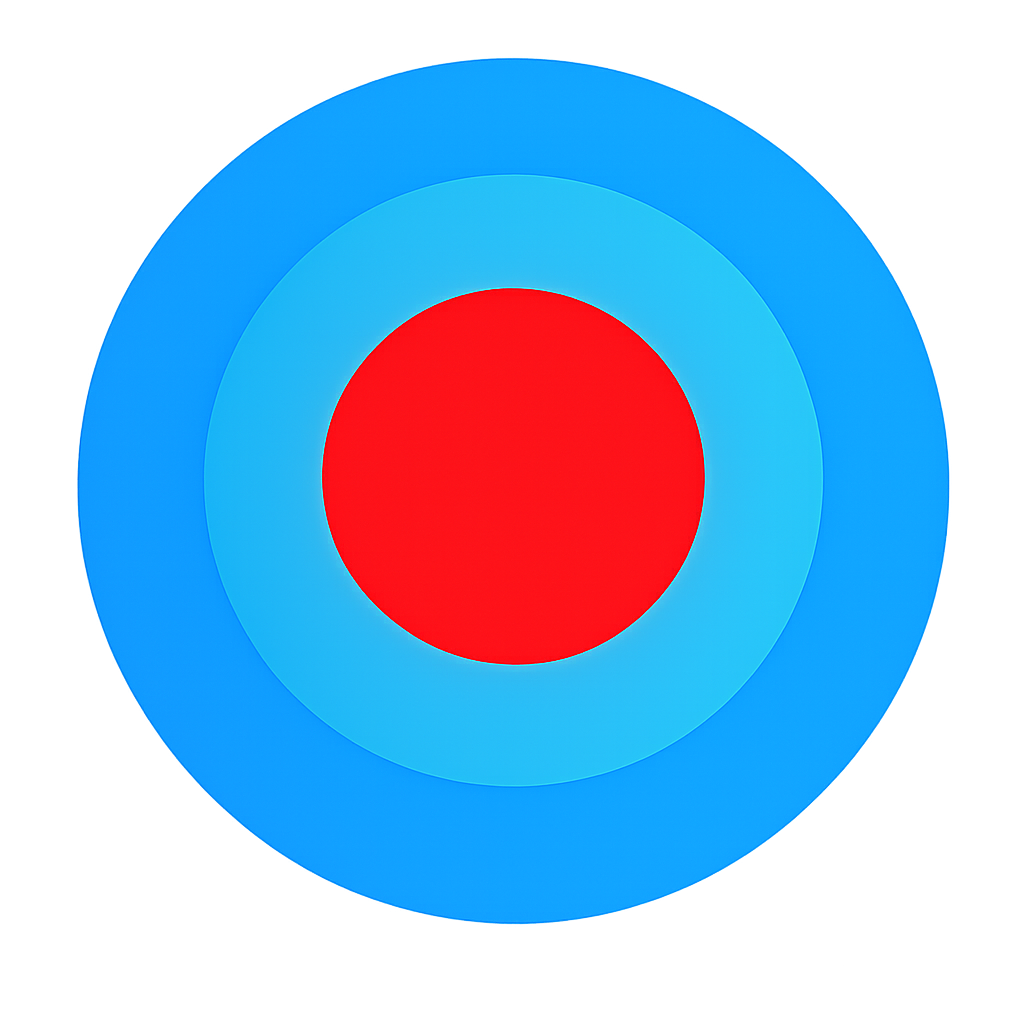
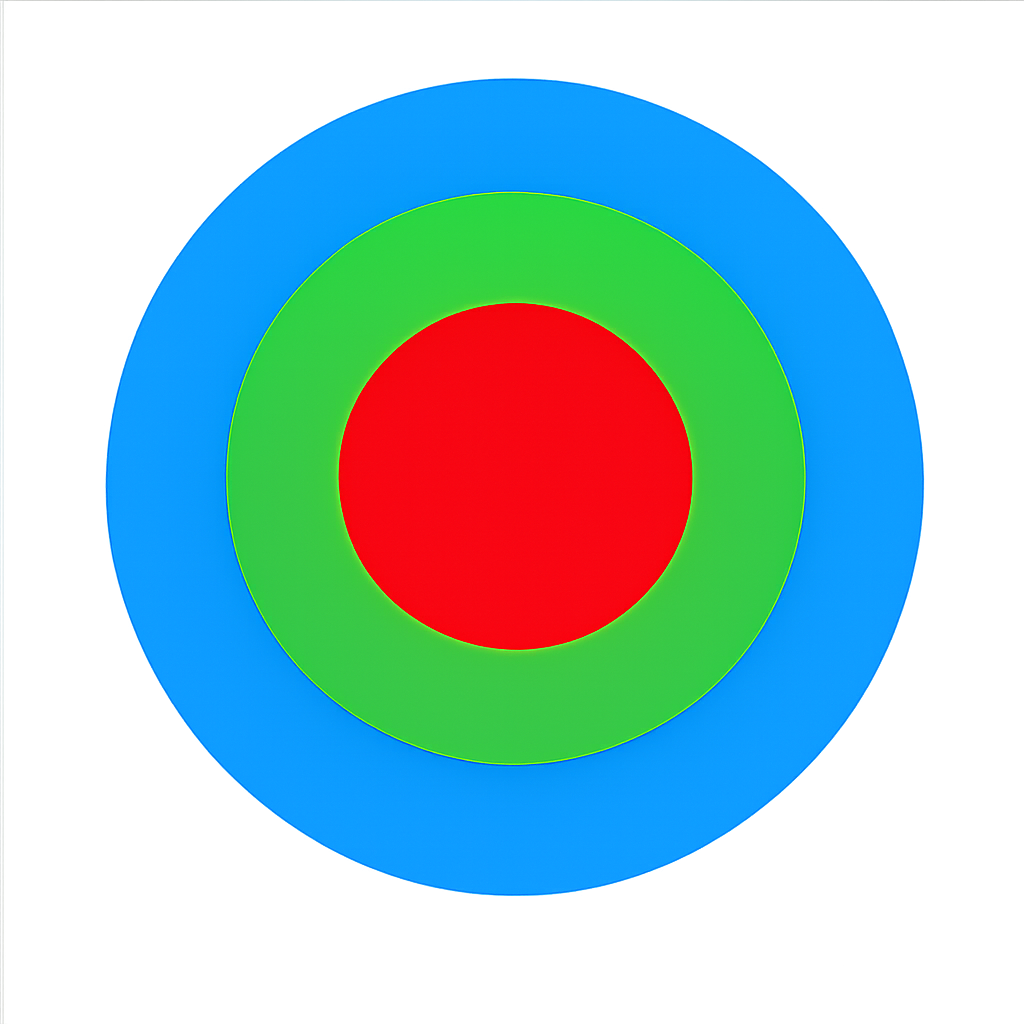
Handle all sizes of iconography to avoid blur.

Changed region(s): [[0.1875, 0.1562, 0.8125, 0.7812], [0.0625, 0.0312, 0.9375, 0.9062]]

diff --git a/meridian/main.py b/meridian/main.py
@@ -13,7 +13,7 @@ logging.basicConfig(
     stream=sys.stderr,
 )
 
-from PySide6.QtCore import QUrl  # noqa: E402
+from PySide6.QtCore import QSize, QUrl  # noqa: E402
 from PySide6.QtGui import QIcon  # noqa: E402
 from PySide6.QtQml import QQmlApplicationEngine  # noqa: E402
 from PySide6.QtQuickControls2 import QQuickStyle  # noqa: E402
@@ -44,12 +44,27 @@ from meridian.version import __version__  # noqa: E402
 if getattr(sys, "frozen", False) and hasattr(sys, "_MEIPASS"):
     _BASE = Path(sys._MEIPASS)
     _QML_MAIN = _BASE / "meridian" / "ui" / "qml" / "main.qml"
+    _ICON_DIR = _BASE
     _ICON_PATH = _BASE / "meridian.png"
     _LICENCE_PATH = _BASE / "LICENSE"
 else:
     _QML_MAIN = Path(__file__).parent / "ui" / "qml" / "main.qml"
-    _ICON_PATH = Path(__file__).parent.parent / "meridian.png"
-    _LICENCE_PATH = Path(__file__).parent.parent / "LICENSE"
+    _ICON_DIR = Path(__file__).parent.parent
+    _ICON_PATH = _ICON_DIR / "meridian.png"
+    _LICENCE_PATH = _ICON_DIR / "LICENSE"
+
+_ICON_SIZES = (16, 20, 24, 28, 32, 40, 48, 56, 64, 72, 96, 128, 256, 512)
+
+
+def _build_app_icon() -> QIcon:
+    icon = QIcon()
+    for size in _ICON_SIZES:
+        p = _ICON_DIR / f"meridian_{size}.png"
+        if p.exists():
+            icon.addFile(str(p), QSize(size, size))
+    if icon.isNull() and _ICON_PATH.exists():
+        icon = QIcon(str(_ICON_PATH))
+    return icon
 
 
 def _read_licence() -> str:
@@ -64,8 +79,9 @@ def main() -> None:
     app = QApplication(sys.argv)
     app.setApplicationName("Meridian")
     app.setApplicationVersion(__version__)
-    if _ICON_PATH.exists():
-        app.setWindowIcon(QIcon(str(_ICON_PATH)))
+    app_icon = _build_app_icon()
+    if not app_icon.isNull():
+        app.setWindowIcon(app_icon)
 
     session_factory = build_session_factory()
     feed_repo = SqliteFeedRepository(session_factory)

diff --git a/create_icons.py b/create_icons.py
@@ -3,6 +3,10 @@
 from pathlib import Path
 from PIL import Image
 
+# Covers 100/125/150/175/200% DPI for all Windows shell icon slots.
+_PNG_SIZES = [16, 20, 24, 28, 32, 40, 48, 56, 64, 72, 96, 128, 256, 512]
+_ICO_SIZES = [16, 20, 24, 28, 32, 40, 48, 56, 64, 72, 96, 128, 256]
+
 
 def main() -> int:
     root = Path(__file__).parent
@@ -14,24 +18,21 @@ def main() -> int:
 
     base = Image.open(src).convert("RGBA")
 
-    sizes = [16, 32, 48, 64, 128, 256, 512]
     resized: dict[int, Image.Image] = {}
 
     print("Generating PNGs...")
-    for size in sizes:
+    for size in _PNG_SIZES:
         img = base.resize((size, size), Image.LANCZOS)
         out = root / f"meridian_{size}.png"
         img.save(out, "PNG")
         resized[size] = img
         print(f"  [OK] {out.name}")
 
-    ico_imgs = [resized[s] for s in [16, 32, 48, 64, 128, 256] if s in resized]
     ico_path = root / "meridian.ico"
-    ico_imgs[0].save(
+    base.save(
         ico_path,
         format="ICO",
-        sizes=[(img.width, img.height) for img in ico_imgs],
-        append_images=ico_imgs[1:],
+        sizes=[(s, s) for s in _ICO_SIZES],
     )
     print(f"  [OK] {ico_path.name}")
 

diff --git a/buildexe.py b/buildexe.py
@@ -52,9 +52,16 @@ def build_exe() -> int:
         "--add-data=meridian/ui/qml:meridian/ui/qml",
         "--add-data=meridian.png:.",
         "--add-data=meridian_16.png:.",
+        "--add-data=meridian_20.png:.",
+        "--add-data=meridian_24.png:.",
+        "--add-data=meridian_28.png:.",
         "--add-data=meridian_32.png:.",
+        "--add-data=meridian_40.png:.",
         "--add-data=meridian_48.png:.",
+        "--add-data=meridian_56.png:.",
         "--add-data=meridian_64.png:.",
+        "--add-data=meridian_72.png:.",
+        "--add-data=meridian_96.png:.",
         "--add-data=meridian_128.png:.",
         "--add-data=meridian_256.png:.",
         "--add-data=meridian_512.png:.",

diff --git a/create_splash.py b/create_splash.py
@@ -1,8 +1,17 @@
 """Generate splash screen PNG with app name, version, and author."""
 
+import importlib.util
 from pathlib import Path
 from PIL import Image, ImageDraw, ImageFont
-from meridian.version import __version__, APP_NAME, APP_AUTHOR
+
+_version_path = Path(__file__).parent / "meridian" / "version.py"
+_spec = importlib.util.spec_from_file_location("meridian.version", _version_path)
+_version_mod = importlib.util.module_from_spec(_spec)
+_spec.loader.exec_module(_version_mod)
+
+__version__: str = _version_mod.__version__
+APP_NAME: str = _version_mod.APP_NAME
+APP_AUTHOR: str = _version_mod.APP_AUTHOR
 
 
 def main() -> int:

diff --git a/buildinstaller.py b/buildinstaller.py
@@ -82,9 +82,16 @@ def main() -> int:
     for asset in [
         "meridian.png",
         "meridian_16.png",
+        "meridian_20.png",
+        "meridian_24.png",
+        "meridian_28.png",
         "meridian_32.png",
+        "meridian_40.png",
         "meridian_48.png",
+        "meridian_56.png",
         "meridian_64.png",
+        "meridian_72.png",
+        "meridian_96.png",
         "meridian_128.png",
         "meridian_256.png",
         "meridian_512.png",

diff --git a/meridian/version.py b/meridian/version.py
@@ -7,4 +7,4 @@ APP_AUTHOR: str = "Oliver Ernster"
 APP_COPYRIGHT: str = "© 2026 Oliver Ernster"
 APP_APPUSERMODELID: str = "com.oliverernster.meridian"
 
-__version__: str = "1.0.1"
+__version__: str = "1.1.0"
